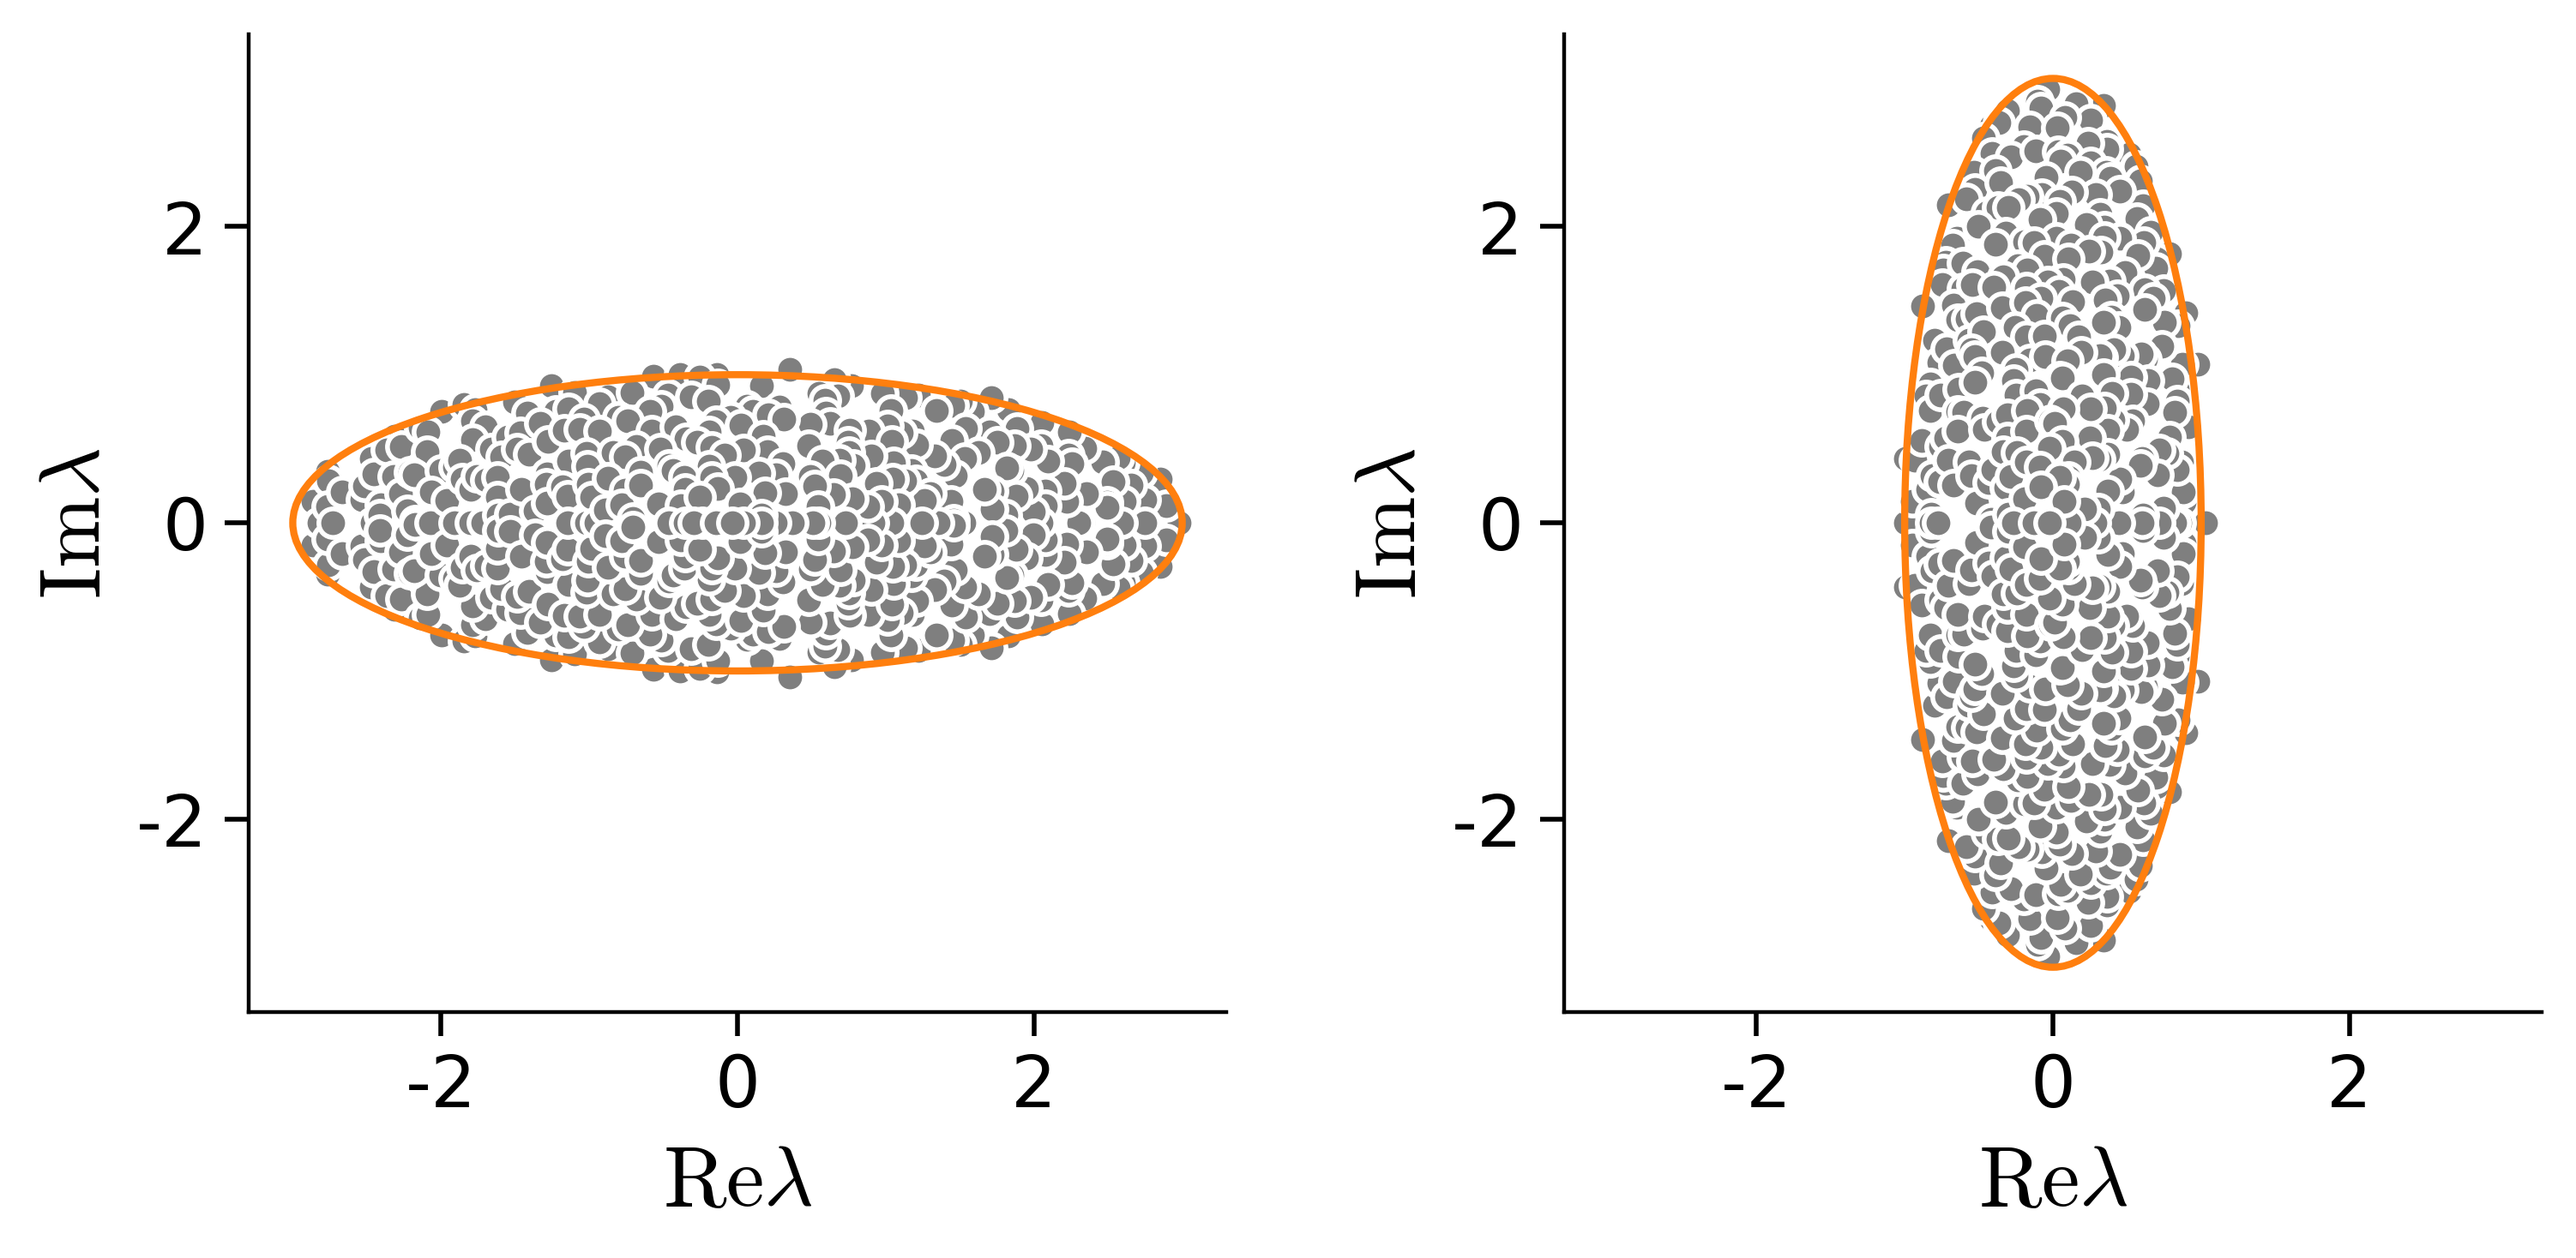
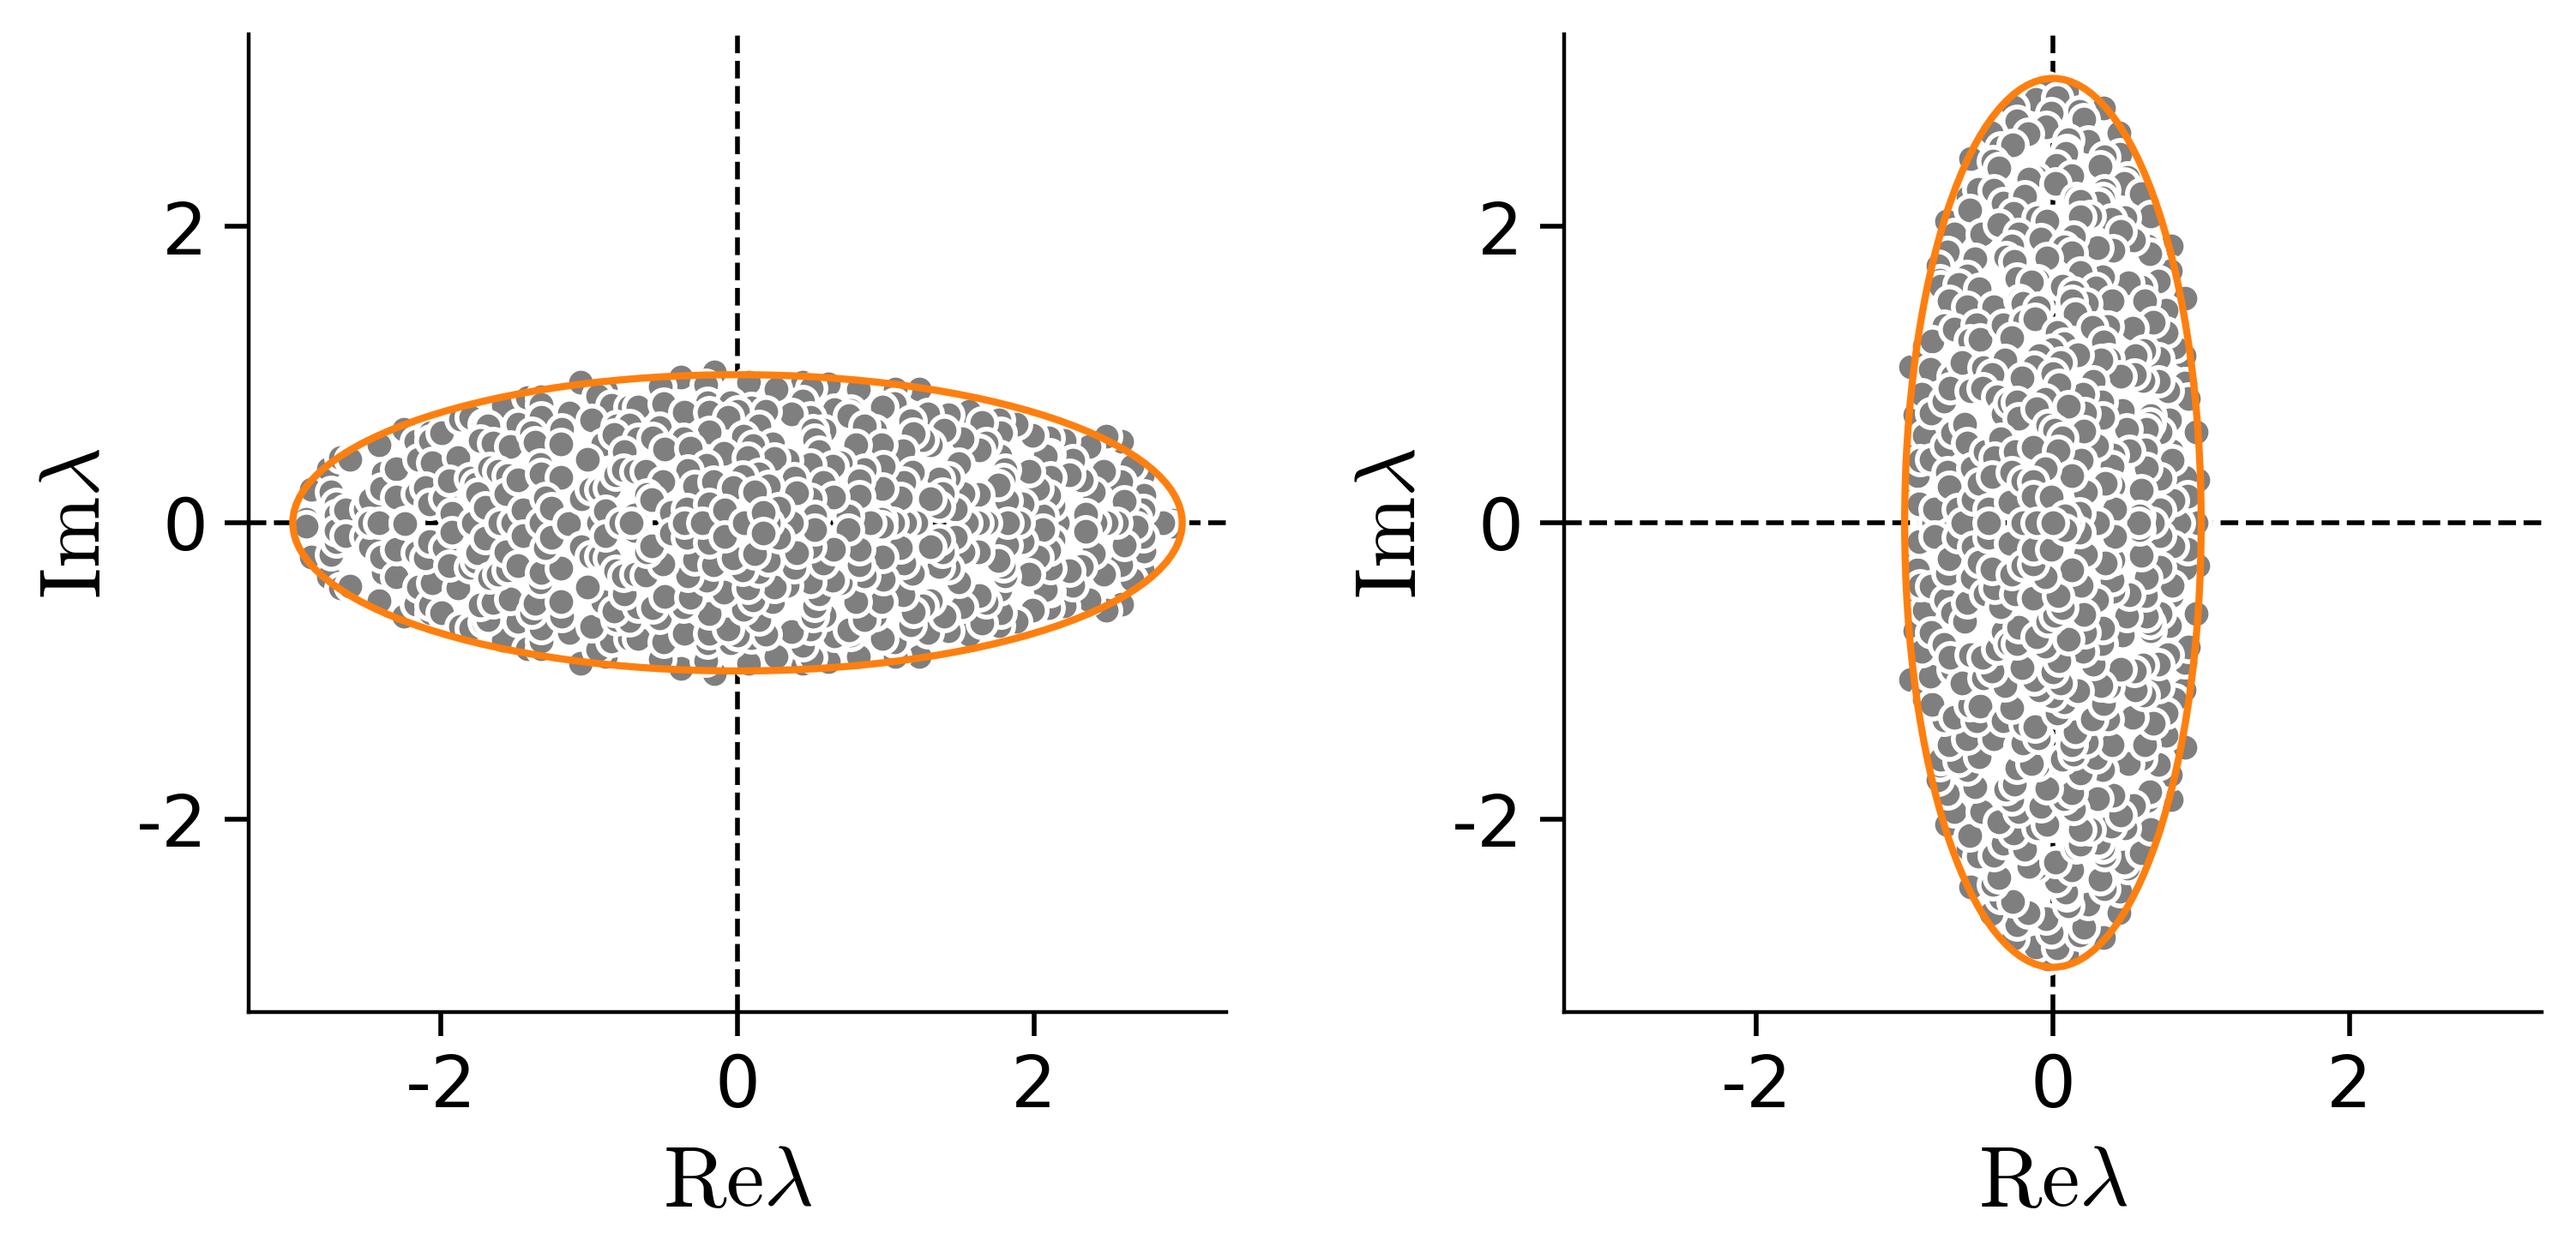
Added show_axis=True in plot.show_complex_spectrum()

Changed region(s): [[0.7121, 0.0613, 0.8668, 0.7663], [0.0929, 0.2759, 0.4644, 0.5518]]

diff --git a/ensembles/plot.py b/ensembles/plot.py
@@ -27,7 +27,8 @@ def show_real_spectrum(cx, z, only_positive=False):
 
 # Show an eigenvalue spectrum
 def show_complex_spectrum(cx, z, radius=None, center=[0, 0], rotation=1,
-                          show_center=False, outlier=None, equal_aspect=True):
+                          show_center=False, outlier=None, equal_aspect=True,
+                          show_axis=True):
     if np.abs(rotation) == 0:
         angle = 0
     else:
@@ -77,5 +78,8 @@ def show_complex_spectrum(cx, z, radius=None, center=[0, 0], rotation=1,
         cx.set_xlim([1.1*mx0-0.1*mx1, 1.1*mx1-0.1*mx0])
         cx.set_ylim([1.1*my0-0.1*my1, 1.1*my1-0.1*my0])
 
+    if show_axis:
+        cx.plot([0, 0], cx.get_ylim(), '--k', zorder=-1)
+        cx.plot(cx.get_xlim(), [0, 0], '--k', zorder=-1)
     cx.spines["right"].set_visible(False)
     cx.spines["top"].set_visible(False)
